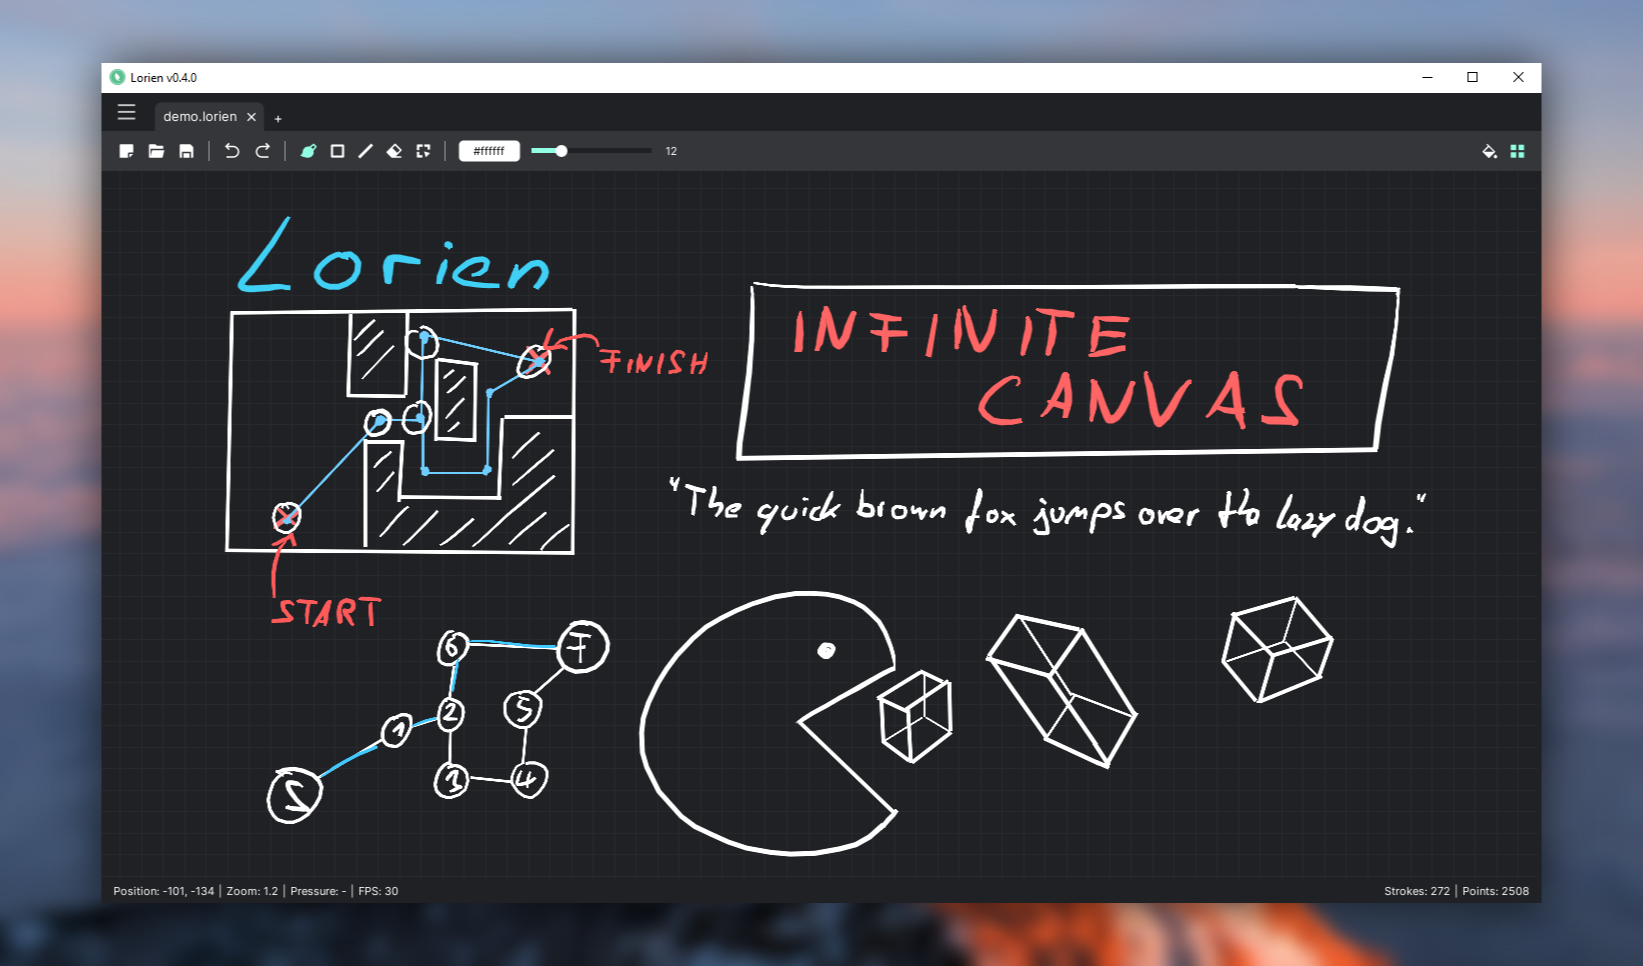
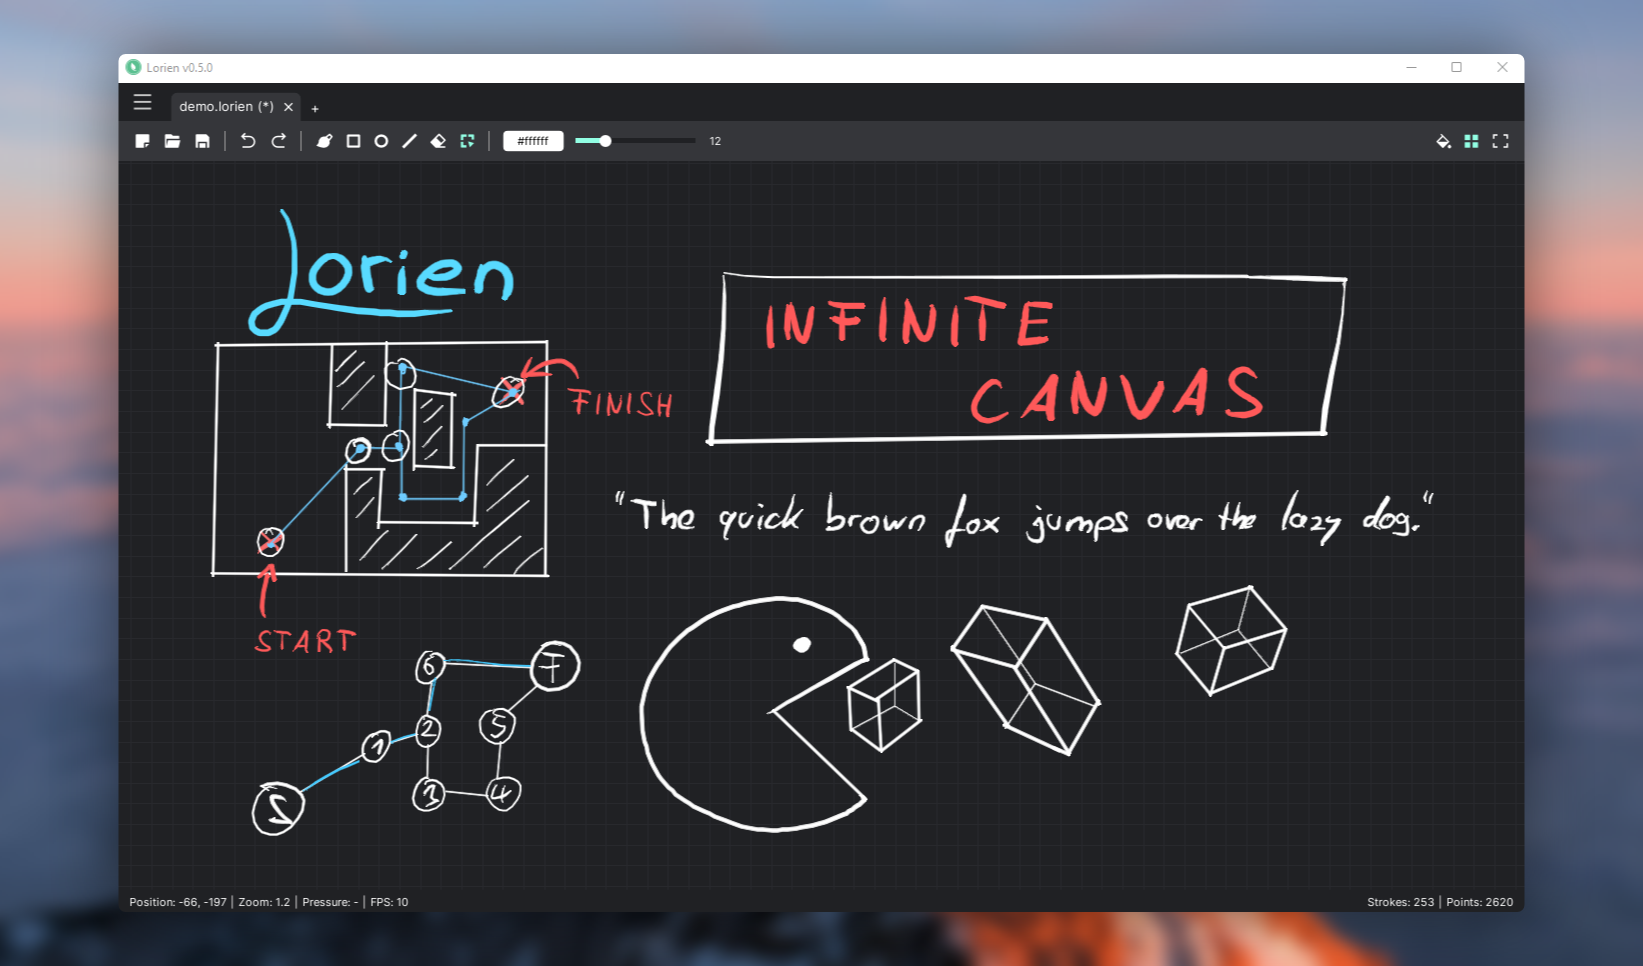
Updated docs

diff --git a/docs/changelog.md b/docs/changelog.md
@@ -28,6 +28,7 @@ If you rely on these eraser-strokes: DO NOT UPDATE to this version or BACKUP you
 
 ### Fixed
 - Fixed misplaced color picker after window resize
+- Fixed keyboard shortcuts for MacOS
 
 ### Changed
 - Updated to Godot 3.4.4
@@ -39,7 +40,6 @@ If you rely on these eraser-strokes: DO NOT UPDATE to this version or BACKUP you
 - Made the brush stroke optimizer less aggresive, which results in smoother lines at the expense of slightly bigger savefiles
 - Increased the default pressure sensitvity from 1.0 to 1.5
 - Lowered minimum window size
-- Update keyboard shortcuts for MacOS
 
 ## [0.4.0] - 2021-10-10
 

diff --git a/docs/manuals/manual_v0.5.0.md b/docs/manuals/manual_v0.5.0.md
@@ -27,7 +27,9 @@ Lorien provides you with different tools which you can find in the toolbar. If y
 - Not pressure sensitve
 
 ### Circle Tool
-TBD
+- Allows you to draw perfect ellipses and circles
+- You can hold down <kbd>Shift</kbd> while using the circle tool to draw perfect circles. Otherwise it defaults to ellipses
+- Not pressure sensitve
 
 ### Eraser Tool
 - Allows you to erease brush strokes by drawing over it. Once the eraser intersects with a brush stroke, the whole brush stroke will be removed

diff --git a/docs/contributing.md b/docs/contributing.md
@@ -2,7 +2,7 @@
 
 ## General
 This guide is loosly based on [Godot's contributing guidelines](https://github.com/godotengine/godot/blob/master/CONTRIBUTING.md):
-- Use the latest stable release: Godot 3.3.4
+- Use the latest stable release: Godot 3.4.4
 - If you want to implement a big feature, open an issue or a [Github discussion](https://github.com/mbrlabs/Lorien/discussions) so we can talk about it first
 - Format your commit messages with readability in mind
 
